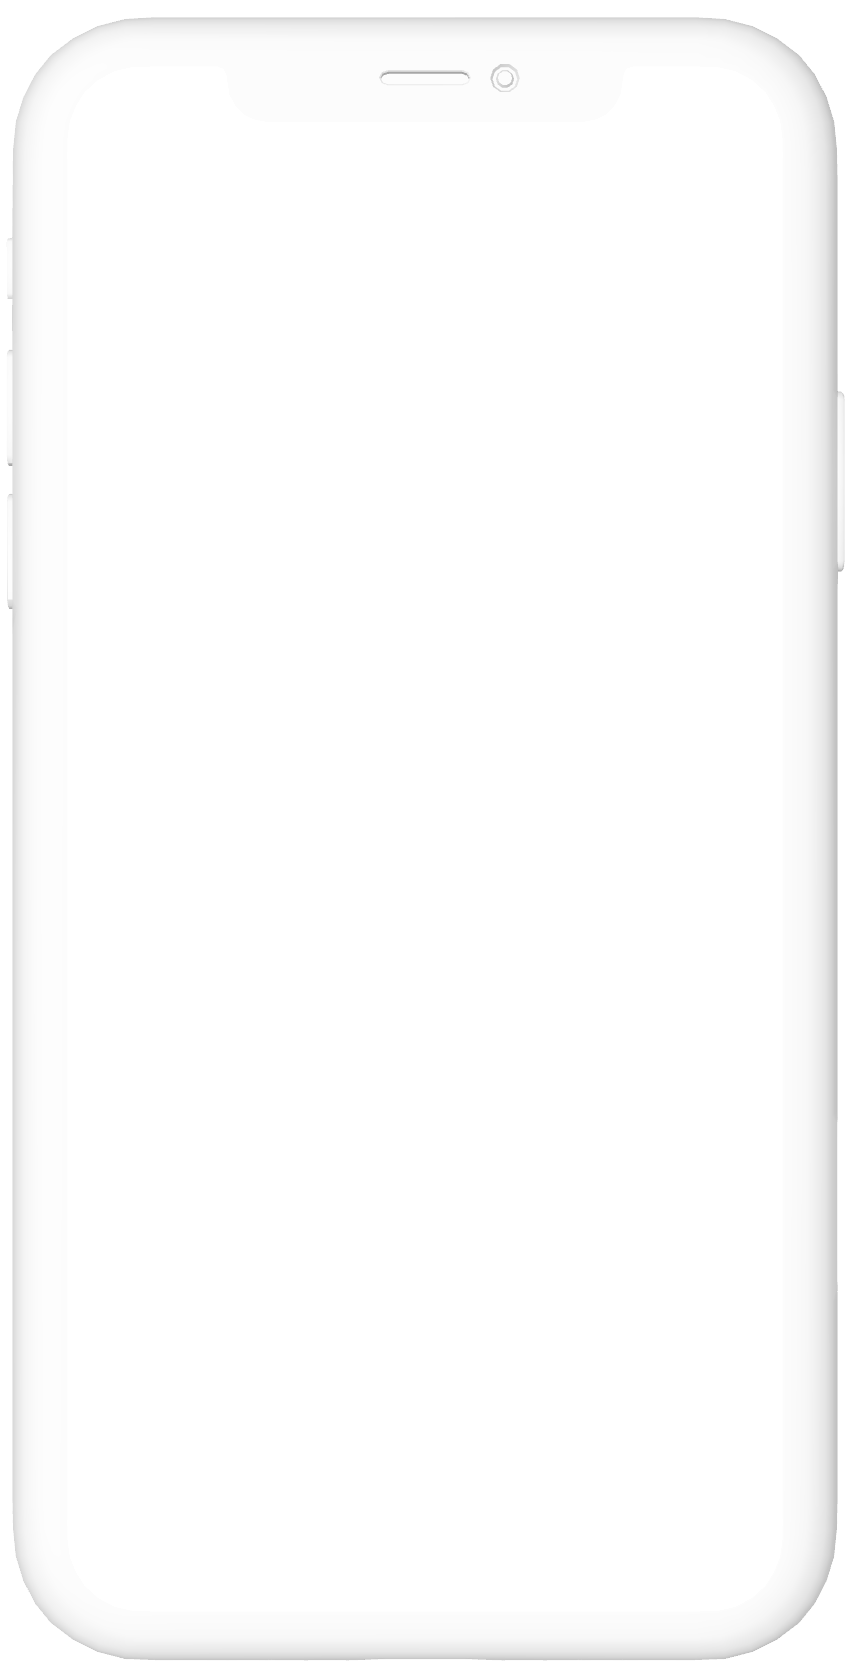
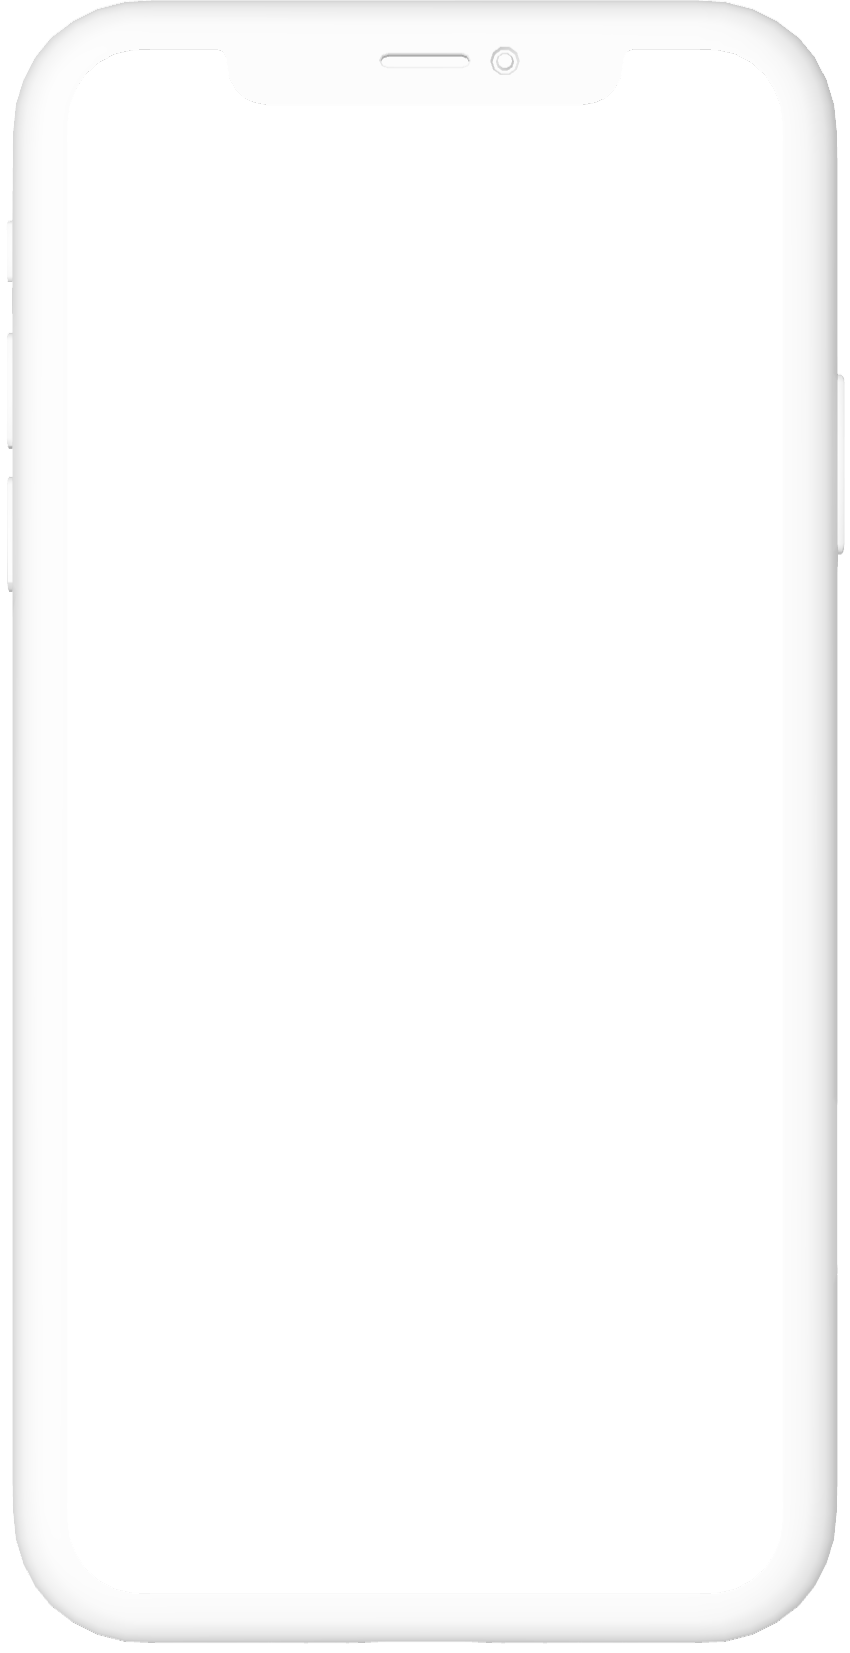
responsive

Changed region(s): [[0.1224, 0.0, 0.9482, 0.0617], [0.1224, 0.9873, 0.8871, 1.0], [0.9482, 0.0309, 0.9788, 0.0617]]

diff --git a/src/Components/Freelance/Freelance.css b/src/Components/Freelance/Freelance.css
@@ -14,7 +14,6 @@
 
 .mockupWrapper {
   min-width: 30%;
-  margin: 0 10px;
   cursor: pointer;
   transition: transform 0.3s;
 }
@@ -75,9 +74,15 @@
 } */
 .mockupFrame {
   position: relative; 
-  width: 90%; 
-  height: 80%; 
+  width: 313px; 
+  height: 580px; 
+  
+  width: 400px;
+  height: 700px;
+  transform: scale(0.9);
   overflow: hidden; 
+  display: flex;
+  justify-content: center;
 }
 
 .mockupFrame::before { /* Agregar un pseudo-elemento para la imagen de fondo */
@@ -96,11 +101,17 @@
 }
 
 #projectIframe {
-  width: 94%;
-  height: 94%;
+  width: 100%;
+  height: 100%;
   border: none;
   z-index: 1;
   border-radius: 35px;
+  overflow: hidden;
+  max-width: 100%;
+
+  width: 360px;
+  height: 710px;
+  transform: scale(0.9)
 }
 
 
@@ -124,12 +135,13 @@
   transform: scale(1);
 }
 
-.iframeWrapper {
-  width: 100%;
-  height: 100%;
-  border-radius: 20px; /* Redondear los bordes */
-  overflow: hidden; /* Ocultar el overflow */
+/* .iframeWrapper {
+  width: 284px;
+  height: 568px;
+  transform: scale(0.9);
+  border-radius: 20px;
+  overflow: hidden;
   display: flex;
   justify-content: center;
   align-items: center;
-}
+} */

diff --git a/src/Components/Freelance/Freelance.jsx b/src/Components/Freelance/Freelance.jsx
@@ -62,9 +62,9 @@ function Freelance() {
       {isVisible && (
         <div className={`iframeContainer ${isVisible ? "visible" : ""}`}>
           <div className="mockupFrame">
-            <div className="iframeWrapper"> {/* Nuevo contenedor */}
+            {/* <div className="iframeWrapper"> */}
               <iframe id="projectIframe" src={iframeUrl} frameBorder="0"></iframe>
-            </div>
+            {/* </div> */}
             <button id="closeIframe" onClick={closeIframe}>
               X
             </button>

diff --git a/src/index.css b/src/index.css
@@ -2,4 +2,9 @@ body {
     margin: 0;
     font-family: 'Aref Ruqaa Ink', serif;
     font-family: 'Yusei Magic', sans-serif;
+    overflow-x: hidden;
 }
+* {
+    box-sizing: border-box; /* Esto ayuda a mantener el tamaño controlado */
+}
+  
